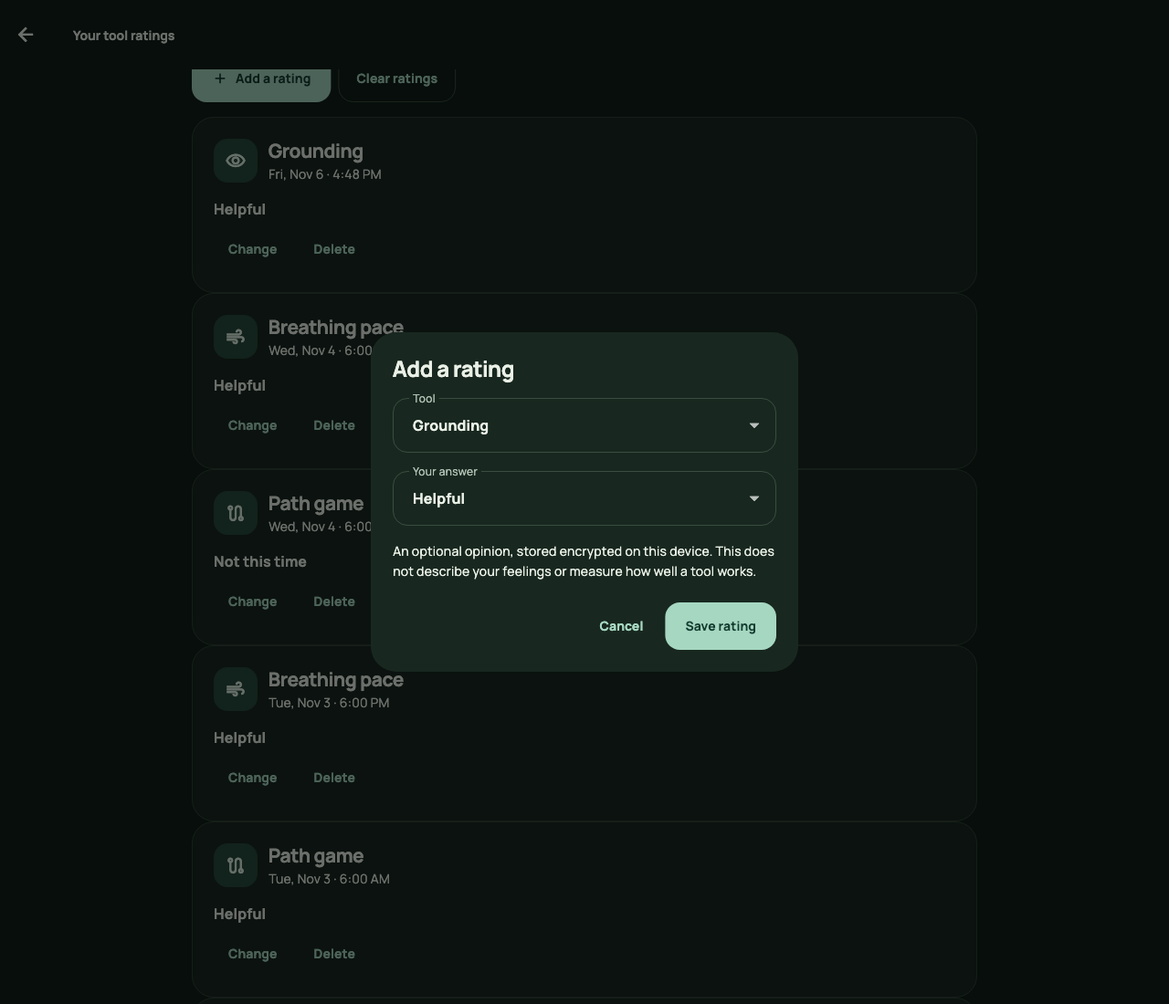
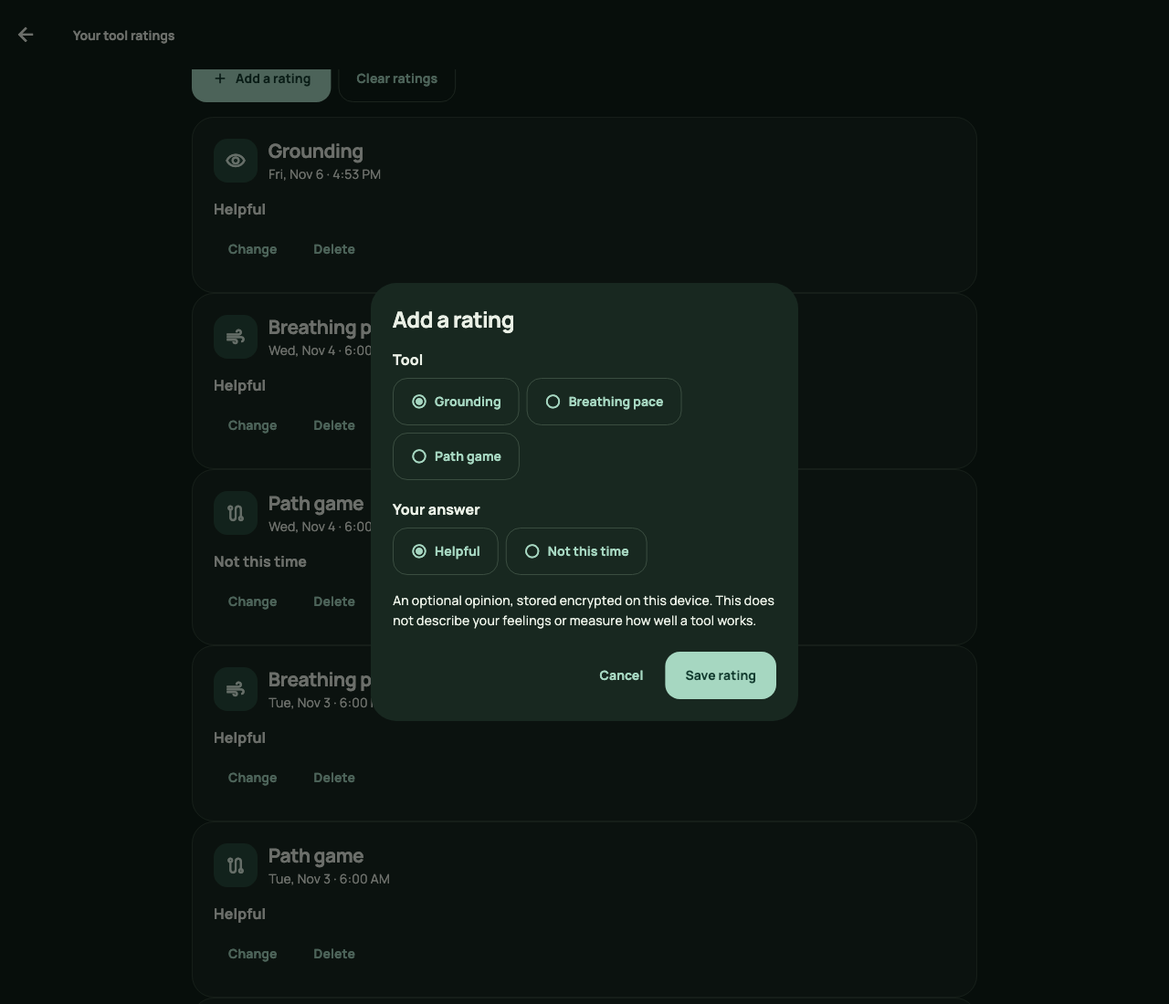
Fix Help-covered saves and keep large-text rating choices readable

Changed region(s): [[0.3125, 0.3091, 0.6875, 0.7109], [0.4688, 0.3709, 0.5625, 0.4327], [0.3125, 0.6491, 0.3438, 0.7109]]

diff --git a/test/widget/tool_feedback_test.dart b/test/widget/tool_feedback_test.dart
@@ -1,6 +1,7 @@
 import 'dart:async';
 
 import 'package:flutter/material.dart';
+import 'package:flutter/rendering.dart';
 import 'package:flutter_test/flutter_test.dart';
 import 'package:steady_through/app/app_controller.dart';
 import 'package:steady_through/data/app_repository.dart';
@@ -396,4 +397,125 @@ void main() {
     await tap(t, 'Rate this tool (optional)');
     expect(t.takeException(), isNull);
   });
+  for (final started in [false, true]) {
+    testWidgets(
+      'Help stays immediate and a ${started ? 'started' : 'queued'} prompt save settles on its original attempt',
+      (t) async {
+        await open(t, prompt());
+        await tap(t, 'Rate this tool (optional)');
+        repo.barrier = Completer<void>();
+        if (!started) controller.setTheme(ThemeChoice.dark);
+        await t.tap(find.text('Helpful'));
+        await t.pump();
+        await t.runAsync(() async => Future<void>.delayed(Duration.zero));
+        await t.pump();
+        unawaited(
+          Navigator.of(t.element(find.byType(ToolFeedbackPrompt))).push(
+            MaterialPageRoute<void>(
+              builder: (_) =>
+                  Scaffold(appBar: AppBar(title: const Text('Help page'))),
+            ),
+          ),
+        );
+        await t.pumpAndSettle();
+        expect(find.text('Help page'), findsOneWidget);
+        repo.barrier!.complete();
+        await t.pumpAndSettle();
+        await t.runAsync(() async => Future<void>.delayed(Duration.zero));
+        await t.pumpAndSettle();
+        await t.pageBack();
+        await t.pumpAndSettle();
+        expect(find.text('Saving rating…'), findsNothing);
+        if (started) {
+          expect(controller.data.toolFeedback.ratings, hasLength(1));
+          expect(find.text('Rating saved'), findsOneWidget);
+          await tap(t, 'Not this time');
+          expect(controller.data.toolFeedback.ratings, hasLength(1));
+        } else {
+          expect(controller.data.toolFeedback.ratings, isEmpty);
+          await tap(t, 'Helpful');
+          expect(controller.data.toolFeedback.ratings, hasLength(1));
+        }
+      },
+    );
+  }
+  testWidgets(
+    'large text dialog paints every selected label glyph inside its bounds',
+    (t) async {
+      t.view.physicalSize = const Size(320, 1100);
+      t.view.devicePixelRatio = 1;
+      addTearDown(t.view.resetPhysicalSize);
+      addTearDown(t.view.resetDevicePixelRatio);
+      await t.pumpWidget(
+        MaterialApp(
+          builder: (context, child) => MediaQuery(
+            data: MediaQuery.of(context)
+                .copyWith(textScaler: TextScaler.linear(2)),
+            child: child!,
+          ),
+          home: ToolFeedbackHistory(controller: controller),
+        ),
+      );
+      await t.pumpAndSettle();
+      await tap(t, 'Add a rating');
+      Future<void> checkLabels(List<String> labels) async {
+        for (final label in labels) {
+          final target = find
+              .descendant(
+                of: find.byType(AlertDialog),
+                matching: find.text(label),
+              )
+              .first;
+          await t.ensureVisible(target);
+          await t.pumpAndSettle();
+          final paragraph = t.renderObject<RenderParagraph>(target);
+          final boxes = paragraph.getBoxesForSelection(
+            TextSelection(baseOffset: 0, extentOffset: label.length),
+          );
+          expect(boxes, isNotEmpty, reason: label);
+          for (final box in boxes) {
+            expect(
+              box.right,
+              lessThanOrEqualTo(paragraph.size.width + 1),
+              reason: label,
+            );
+            expect(
+              box.bottom,
+              lessThanOrEqualTo(paragraph.size.height + 1),
+              reason: label,
+            );
+          }
+        }
+      }
+
+      await checkLabels([
+        'Grounding',
+        'Breathing pace',
+        'Path game',
+        'Helpful',
+        'Not this time',
+      ]);
+      await tap(t, 'Path game');
+      await tap(t, 'Not this time');
+      await tap(t, 'Save rating');
+      final receipt = controller.data.toolFeedback.ratings.single;
+      expect(receipt.tool, SupportTool.pathGame);
+      expect(receipt.rating, ToolRating.notThisTime);
+      await t.scrollUntilVisible(
+        find.text('Change'),
+        250,
+        scrollable: find.byType(Scrollable).first,
+      );
+      await tap(t, 'Change');
+      await checkLabels(['Helpful', 'Not this time']);
+      await tap(t, 'Helpful');
+      await tap(t, 'Save rating');
+      expect(controller.data.toolFeedback.ratings.single.id, receipt.id);
+      expect(
+        controller.data.toolFeedback.ratings.single.rating,
+        ToolRating.helpful,
+      );
+      expect(t.takeException(), isNull);
+    },
+  );
 }

diff --git a/lib/features/tools/feedback/tool_feedback_dialog.dart b/lib/features/tools/feedback/tool_feedback_dialog.dart
@@ -160,6 +160,19 @@ class _FeedbackDialogState extends State<_FeedbackDialog> {
     super.dispose();
   }
 
+  Widget _choice(String label, bool selected, VoidCallback choose) => Semantics(
+    selected: selected,
+    child: OutlinedButton.icon(
+      onPressed: _busy || _invalidated || !_activity.active || _vehicle
+          ? null
+          : choose,
+      icon: Icon(
+        selected ? Icons.radio_button_checked : Icons.radio_button_off,
+      ),
+      label: Text(label),
+    ),
+  );
+
   @override
   Widget build(BuildContext context) {
     final title = switch (widget.action) {
@@ -183,41 +196,42 @@ class _FeedbackDialogState extends State<_FeedbackDialog> {
           crossAxisAlignment: CrossAxisAlignment.start,
           children: [
             if (widget.action == _Action.rate) ...[
-              if (widget.expected == null)
-                DropdownButtonFormField<SupportTool>(
-                  initialValue: _tool,
-                  isExpanded: true,
-                  decoration: const InputDecoration(labelText: 'Tool'),
-                  items: [
+              if (widget.expected == null) ...[
+                Text('Tool', style: Theme.of(context).textTheme.titleMedium),
+                const SizedBox(height: 8),
+                Wrap(
+                  spacing: 8,
+                  runSpacing: 8,
+                  children: [
                     for (final tool in SupportTool.values)
-                      DropdownMenuItem(
-                        value: tool,
-                        child: Text(toolName(tool)),
+                      _choice(
+                        toolName(tool),
+                        _tool == tool,
+                        () => setState(() => _tool = tool),
                       ),
                   ],
-                  onChanged: _busy
-                      ? null
-                      : (value) => setState(() => _tool = value!),
-                )
-              else
+                ),
+              ] else
                 Text(
                   '${toolName(_tool)} · ${feedbackDate(context, widget.expected!.createdAt)}',
                 ),
               const SizedBox(height: 20),
-              DropdownButtonFormField<ToolRating>(
-                initialValue: _rating,
-                isExpanded: true,
-                decoration: const InputDecoration(labelText: 'Your answer'),
-                items: [
+              Text(
+                'Your answer',
+                style: Theme.of(context).textTheme.titleMedium,
+              ),
+              const SizedBox(height: 8),
+              Wrap(
+                spacing: 8,
+                runSpacing: 8,
+                children: [
                   for (final rating in ToolRating.values)
-                    DropdownMenuItem(
-                      value: rating,
-                      child: Text(ratingName(rating)),
+                    _choice(
+                      ratingName(rating),
+                      _rating == rating,
+                      () => setState(() => _rating = rating),
                     ),
                 ],
-                onChanged: _busy
-                    ? null
-                    : (value) => setState(() => _rating = value!),
               ),
               const SizedBox(height: 16),
               const Text(

diff --git a/lib/features/tools/feedback/tool_feedback_prompt.dart b/lib/features/tools/feedback/tool_feedback_prompt.dart
@@ -81,12 +81,14 @@ class _ToolFeedbackPromptState extends State<ToolFeedbackPrompt> {
     if (mounted) setState(_reset);
   }
 
-  bool _valid(int generation, int epoch, int revision) =>
+  bool _sameAttempt(int generation, int epoch, int revision) =>
       mounted &&
       generation == _generation &&
       _activity.accepts(epoch) &&
       revision == widget.controller.replacementRevision &&
-      !_vehicle &&
+      !_vehicle;
+  bool _valid(int generation, int epoch, int revision) =>
+      _sameAttempt(generation, epoch, revision) &&
       (ModalRoute.of(context)?.isCurrent ?? true);
   Future<void> _save(ToolRating? rating) async {
     if (_busy || !_activity.active || _vehicle) return;
@@ -128,21 +130,31 @@ class _ToolFeedbackPromptState extends State<ToolFeedbackPrompt> {
           if (r.id == previous.id) saved = r;
         }
       }
-      if (guard()) {
+      // Help can cover this same attempt while an atomic save finishes. Keep
+      // its receipt here so returning cannot accidentally create a duplicate.
+      // A replacement route/board, background epoch or document still fails.
+      if (_sameAttempt(generation, epoch, revision)) {
         setState(() {
-          _receipt = saved;
+          _receipt =
+              widget.controller.data.toolFeedback.ratings.any(
+                (record) => identical(record, saved),
+              )
+              ? saved
+              : null;
           _expanded = true;
         });
       }
     } catch (_) {
-      if (guard()) {
+      if (_sameAttempt(generation, epoch, revision)) {
         setState(
           () => _error =
               'Could not save this change. Try again or leave this tool.',
         );
       }
     } finally {
-      if (guard()) setState(() => _busy = false);
+      if (_sameAttempt(generation, epoch, revision)) {
+        setState(() => _busy = false);
+      }
     }
   }
 

diff --git a/tool/capture_feedback_ui_test.dart b/tool/capture_feedback_ui_test.dart
@@ -256,10 +256,13 @@ void main() {
       await _capture(tester, file('history-records'));
       await _tapVisible(tester, find.text('Change'));
       expect(find.text('Change your rating'), findsOneWidget);
-      await tester.tap(find.byType(DropdownButtonFormField<ToolRating>));
-      await tester.pumpAndSettle();
-      await tester.tap(find.text('Not this time').last);
-      await tester.pumpAndSettle();
+      await _tapVisible(
+        tester,
+        find.descendant(
+          of: find.byType(AlertDialog),
+          matching: find.text('Not this time'),
+        ),
+      );
       await _capture(tester, file('dialog-change'));
       await _tapVisible(tester, find.text('Cancel'));
 

diff --git a/docs/superpowers/plans/2026-11-06-what-helps.md b/docs/superpowers/plans/2026-11-06-what-helps.md
@@ -1,6 +1,6 @@
 # What Helps You Implementation Plan
 
-> **For agentic workers:** REQUIRED SUB-SKILL: Use superpowers:subagent-driven-development (recommended) or superpowers:executing-plans to implement this plan task-by-task. Steps use checkbox (`- [ ]`) syntax for tracking.
+> **For agentic workers:** REQUIRED SUB-SKILL: Use superpowers:subagent-driven-development (recommended) or superpowers:executing-plans to implement this plan task-by-task. Steps use checkbox (`- [x]`) syntax for tracking.
 
 **Goal:** Let people optionally rate support tools and revisit ones they explicitly marked helpful.
 
@@ -37,10 +37,10 @@
 
 **Interfaces:** `SupportTool {grounding,breathing,pathGame}`; `ToolRating {helpful,notThisTime}`; immutable `ToolFeedback(id,createdAt,tool,rating)`; `ToolFeedbackData(showPrompts,useSuggestions,ratings)` with `bounded`, `record`, `correct`, `remove`, `copyWith` and strict JSON. `ToolFeedbackSummary.fromData(data,{now})` provides newest-first `ratings`, per-tool `counts(tool)` (`helpful`,`notThisTime`,`latest`) and `suggestion` (latest Helpful among latest-per-tool ratings, null when suggestions off). Controller `recordToolFeedback(tool,rating,{required expectedRevision,isActive}) -> Future<ToolFeedback>`; `correctToolFeedback(id,rating,{required expected,required expectedRevision,isActive})`; matching delete; `clearToolFeedback({required expectedRevision,isActive})`; `updateToolFeedbackOptions({bool? showPrompts,bool? useSuggestions,required expectedRevision,isActive})`; `pruneRetainedData()`.
 
-- [ ] Write failing tests for strict record/settings validation and immutable UTC roundtrip; schema1/2/3→4 preserving guide/plan/learning; invalid4/unknown5, illegal field in earlier versions; inclusive180day/future/tie/1000eviction; most-recent helpful retrieval and latest-negative exclusion with all ordinary tools retained by UI.
-- [ ] Write controller tests for exact receipt/correction identity/time, expected-ID+instance checks, queued unrelated writes, replacement revision/lifecycle guard checked at execution, failed primary save versus committed cleanup warning, clear scope, retention/eviction purge and post-dispose rejection. Extend real encrypted portability with rating/settings roundtrip and unchanged native consent reset.
-- [ ] Run targeted tests to observe missing behavior (RED). Implement models, schema4/version>=3 parsing, guarded current-state mutations and both-history retention. Replace production/test `pruneLearning` calls with `pruneRetainedData`; do not weaken malformed-import expectations.
-- [ ] Run targeted suites then `flutter test`. Expected all PASS. Commit code/tests and record actual evidence.
+- [x] Write failing tests for strict record/settings validation and immutable UTC roundtrip; schema1/2/3→4 preserving guide/plan/learning; invalid4/unknown5, illegal field in earlier versions; inclusive180day/future/tie/1000eviction; most-recent helpful retrieval and latest-negative exclusion with all ordinary tools retained by UI.
+- [x] Write controller tests for exact receipt/correction identity/time, expected-ID+instance checks, queued unrelated writes, replacement revision/lifecycle guard checked at execution, failed primary save versus committed cleanup warning, clear scope, retention/eviction purge and post-dispose rejection. Extend real encrypted portability with rating/settings roundtrip and unchanged native consent reset.
+- [x] Run targeted tests to observe missing behavior (RED). Implement models, schema4/version>=3 parsing, guarded current-state mutations and both-history retention. Replace production/test `pruneLearning` calls with `pruneRetainedData`; do not weaken malformed-import expectations.
+- [x] Run targeted suites then `flutter test`. Expected all PASS. Commit code/tests and record actual evidence.
 
 ### Task 2: Optional rating prompt, ownership history and explained ideas
 
@@ -48,9 +48,9 @@
 
 **Interfaces:** `FeedbackActivity` observes lifecycle, exposes active/epoch guard and closes cleanly. `ToolFeedbackPrompt(controller,tool,LearningSession? safetySession)` is collapsed by default and borrows the controller; parent gives a fresh widget key per attempt. `WhatHelpsCard(controller,{safetySession,onOpenTool})` shows exact counts/latest answers, optional explained suggestion, two settings and link to lazy `ToolFeedbackHistory`. Dialogs support add/correct/delete/clear with revision, expected receipt and lifecycle guards; no caller supplies a stale whole AppData/list.
 
-- [ ] Write failing widget tests for collapsed/expand/skip/no automatic save, duplicate tap with delayed repository, failed save/retry, correction and exact Undo, source-off/paused use, prompt setting off/manual Add still available, suggestion reason/latest-negative behavior, per-record and clear confirmation scope, stale/import/background/vehicle/disposal guards and safe late completions.
-- [ ] Run targeted widget file (RED). Implement focused widgets and activity guard, live success/error semantics and wrapping controls. Suggestions open only after a tap. Ratings list uses lazy rendering; external exports remain outside deletion scope. Record primary success plus cleanup warning distinctly.
-- [ ] Run widget tests, analyzer and full Flutter suite. Expected all PASS. Commit and ledger actual results.
+- [x] Write failing widget tests for collapsed/expand/skip/no automatic save, duplicate tap with delayed repository, failed save/retry, correction and exact Undo, source-off/paused use, prompt setting off/manual Add still available, suggestion reason/latest-negative behavior, per-record and clear confirmation scope, stale/import/background/vehicle/disposal guards and safe late completions.
+- [x] Run targeted widget file (RED). Implement focused widgets and activity guard, live success/error semantics and wrapping controls. Suggestions open only after a tap. Ratings list uses lazy rendering; external exports remain outside deletion scope. Record primary success plus cleanup warning distinctly.
+- [x] Run widget tests, analyzer and full Flutter suite. Expected all PASS. Commit and ledger actual results.
 
 ### Task 3: Integrate all tool entry points, pacing and encrypted native fixture
 
@@ -58,17 +58,17 @@
 
 **Interfaces:** Tool constructors gain optional `LearningSession? safetySession`; shell and game-break routes forward it consistently. Grounding uses prompt at finished view. Breathing adds explicit Done for now/Start again with attempt key, paused lifecycle and static reduced-motion circle. Game prompt is independent of `_chooseFeeling`; new/easier/restarted attempts reset prompt state. Tools summary callback opens the selected tool in the existing route with shell help/path callbacks.
 
-- [ ] Write failing integration/widget cases for Grounding skipped-to-ending, immediate Stop/Back/Help, all shell return labels, Breathing Done cancels timer/Help pauses/no auto-resume/static reduced motion, game usefulness without GameRound and independent feeling save, new-board/in-flight prompt isolation, source-off summary and320px/200% Simple/reduced-motion layouts.
-- [ ] Run targeted widget suites (RED). Integrate reusable components and safety parameters; keep original tool ordering and direct exits. Update game grounding return label to Back to game.
-- [ ] Extend the existing native encrypted backup case with synthetic ratings of all tools/both answers plus options. Assert exact preservation after confirmed import and authenticated reopen, unchanged plans/settings/native-consent-off behavior and exactly the original3native case names. Existing encrypted unit fixture verifies the same payload before CI.
-- [ ] Run analyzer/full Flutter/helper suites. Generate and inspect synthetic mobile/desktop/light/dark/large-text prompt, summary, history and dialog captures; no personal vault/passphrase or OS grants. Commit and ledger evidence.
+- [x] Write failing integration/widget cases for Grounding skipped-to-ending, immediate Stop/Back/Help, all shell return labels, Breathing Done cancels timer/Help pauses/no auto-resume/static reduced motion, game usefulness without GameRound and independent feeling save, new-board/in-flight prompt isolation, source-off summary and320px/200% Simple/reduced-motion layouts.
+- [x] Run targeted widget suites (RED). Integrate reusable components and safety parameters; keep original tool ordering and direct exits. Update game grounding return label to Back to game.
+- [x] Extend the existing native encrypted backup case with synthetic ratings of all tools/both answers plus options. Assert exact preservation after confirmed import and authenticated reopen, unchanged plans/settings/native-consent-off behavior and exactly the original3native case names. Existing encrypted unit fixture verifies the same payload before CI.
+- [x] Run analyzer/full Flutter/helper suites. Generate and inspect synthetic mobile/desktop/light/dark/large-text prompt, summary, history and dialog captures; no personal vault/passphrase or OS grants. Commit and ledger evidence.
 
 ### Task 4: Whole-branch review and verified public1.4preview
 
 **Files:** Update `pubspec.yaml`, `README.md`, `PRIVACY.md`, `docs/quality-status.md`, `docs/device-validation.md`, `docs/ios-distribution.md`; create `docs/releases/1.4.0-decisions.md` and publication snapshot.
 
-- [ ] Run fresh format/analyzer/full Flutter/helper verification; record actual counts. Request fresh whole-branch review on exact range with spec/plan/ledger/Review Focus. Resolve material findings with RED→GREEN regressions and a full green suite.
-- [ ] Set1.4.0+8 and document schema4/read1..4 downgrade/backup boundaries, optional opinions and remaining manual/distribution limits. Adapt previous scoped release helpers without weakening source/package/native/hash gates; preserve original3case names and6packages/10assets.
+- [x] Run fresh format/analyzer/full Flutter/helper verification; record actual counts. Request fresh whole-branch review on exact range with spec/plan/ledger/Review Focus. Resolve material findings with RED→GREEN regressions and a full green suite.
+- [x] Set1.4.0+8 and document schema4/read1..4 downgrade/backup boundaries, optional opinions and remaining manual/distribution limits. Adapt previous scoped release helpers without weakening source/package/native/hash gates; preserve original3case names and6packages/10assets.
 - [ ] Push public feature branch; all7existing CI jobs must pass on exact final source. Download13source-bound artifacts and verify actual suite/native reports/binary metadata. Stage6packages plus evidence/checksums; independent artifact review precedes public release. Draft-upload/hash-check then publish `v1.4.0-preview.1` with tag exactly equal to CI source.
 - [ ] Update public main through reviewed source and documentation-only publication records. Verify ancestry/rename-safe doc allowlist, server asset hashes/sizes/states and anonymous repository/release/all10downloads. Cancel only any redundant tag-triggered identical-source run. Keep physical devices/grants, real OS dialogs, native assistive technology, signing and efficacy as unexecuted separate work.
 - [ ] Record final evidence, archive/remove only this plan scratch workspace, finish branch and report concrete changes with verified limits. Do not stop merely after local tests or review.

diff --git a/docs/quality-status.md b/docs/quality-status.md
@@ -10,7 +10,9 @@ Ratings retain only ID/time/tool/answer in the encrypted vault/export: inclusive
 
 The two rating settings work with learning sources off or paused. The existing optional session's current possible-vehicle flag suppresses rating mutations, while Help/Back remain available; missing motion stays unknown and no source or permission is added. Queued writes guard document replacement, foreground and attempt lifetime. Breathing adds explicit Done for now after Start, a fresh Start again attempt, pause on background/Help with no auto-resume, and a static reduced-motion circle with pace text.
 
-**1.4 evidence is pending:** final local test/format/analyzer/helper results, fresh whole-branch review, synthetic visual inspection, seven-job exact-source CI, native reports, six package checks, release staging, hashes and anonymous public access must be recorded from actual results. No 1.4 count, source hash or published release is asserted here. Feedback captures are planned for `docs/screenshots/what-helps/`; a generated image is not by itself inspected evidence. The existing native encrypted-backup case is extended for all three tools, both answers and rating settings; its execution remains to be verified on each runtime.
+**Local 1.4 evidence:** 354 Flutter tests and 88 Python CI-helper tests passed, analyzer reported no issues, and all 98 Dart files passed format checking unchanged. A fresh whole-branch review found two P2 issues: a prompt could remain busy after Help covered a pending save, and narrow200% dropdown values clipped. Three regressions failed before the fixes and passed afterward; queued actions remain rejected, already-started receipts reconcile only to the same attempt, and wrapped choices expose every label. The final full suite passed after the fixes. All 28 synthetic feedback captures were generated and inspected across mobile light, desktop dark and320px Simple/200% reduced-motion profiles. These renderings exercise actual widgets with fictional data, without a vault, OS grant or personal readings. They are not native assistive-technology validation.
+
+**Still pending for 1.4:** seven-job exact-source CI, all original three native cases per runtime, six package/source checks, release staging, public hashes and anonymous access. The encrypted native backup fixture includes all tools/both answers and rating settings; runtime execution must be recorded separately.
 
 Physical devices/grants, real OS file/permission dialogs, native assistive technology, signing/notarization and clinical or human effectiveness remain separate unexecuted work. The [design](superpowers/specs/2026-11-06-what-helps-design.md), [decisions](releases/1.4.0-decisions.md) and [manual checks](device-validation.md) define the current scope. All evidence below applies only to its named historical revision.
 

diff --git a/PRIVACY.md b/PRIVACY.md
@@ -4,7 +4,7 @@ _Last updated: November 6, 2026_
 
 ## Current 1.4 work in progress — CI and release pending
 
-The working **1.4.0+8** adds optional tool-rating preferences in the encrypted vault, writes **schema 4**, and reads strictly validated versions **1, 2, 3 and 4**. Validation and publication evidence for this revision are pending; earlier release evidence remains historical. New version 4 vaults/exports cannot be read by an app that supports only up to version 3. Preserve a usable earlier backup if you may return to an older app. Encryption, export passphrases, the KDF and native source permissions remain unchanged. See the [1.4 decisions](docs/releases/1.4.0-decisions.md) and [quality status](docs/quality-status.md).
+The working **1.4.0+8** adds optional tool-rating preferences in the encrypted vault, writes **schema 4**, and reads strictly validated versions **1, 2, 3 and 4**. Local verification is recorded in quality status; exact-source native CI and publication remain pending. Earlier release evidence remains historical. New version 4 vaults/exports cannot be read by an app that supports only up to version 3. Preserve a usable earlier backup if you may return to an older app. Encryption, export passphrases, the KDF and native source permissions remain unchanged. See the [1.4 decisions](docs/releases/1.4.0-decisions.md) and [quality status](docs/quality-status.md).
 
 Steady Through works locally without an account, app-operated backend, analytics, advertising, in-app cloud sync or cloud emotion service. The whole app is free. Device permissions are optional; declining them leaves planning, tools, people, manual check-ins and help available. The app does not request a birth date, location permission, contacts permission or notification permission. People and phone numbers are typed in manually. Its features support personal organization and general self-help; they are not medical care or a validated stress measurement.
 

diff --git a/docs/releases/1.4.0-decisions.md b/docs/releases/1.4.0-decisions.md
@@ -15,3 +15,7 @@ The working app version is **1.4.0+8**. This records the intended and implemente
 9. **Keep evidence tied to its source and limits.** Final format/analyzer/Flutter/helper results, fresh whole-branch review, exact-source seven-job CI, all original three native case names per runtime, six packages, public hashes/access and publication are pending. The encrypted native backup fixture includes all tools/both answers and both settings; execution must be recorded separately. Synthetic feedback captures are planned for `docs/screenshots/what-helps/` and need visual inspection. Physical grants/devices, native assistive technology, real OS dialogs, signing/notarization and clinical or human outcomes remain unexecuted work.
 
 The [manual device guide](../device-validation.md) and [iOS distribution handoff](../ios-distribution.md) preserve the remaining owner/device steps. No prior-release count or package result is evidence for 1.4.
+
+## Local verification and review
+
+The final full Flutter suite passed354 tests; Python CI helpers passed88, analyzer reported no issues, and98 Dart files passed unchanged formatting. Fresh whole-branch review inspected458a4f4..719e256 and found two P2 defects. Three regressions reproduced both queued/started Help-covered saves and clipped selected text before the fixes, then passed. Same-attempt receipt reconciliation prevents duplicate resubmission after Help; stale document/foreground/board guards still apply. Dialogs now use wrapping selected choices. The complete suite passed again after these fixes, and28 regenerated synthetic captures were inspected, including the corrected narrow200% dialogs. No material review finding remains open. Runtime, artifact and publication evidence is still pending.

diff --git a/README.md b/README.md
@@ -10,7 +10,7 @@ The working app version is **1.4.0+8**. **What helps you** adds optional persona
 
 This source writes **schema 4** and reads strictly validated **versions 1, 2, 3 and 4**. Schema 4 adds encrypted tool ratings/settings; older documents start with no ratings and both rating settings on. Apps that read only up to version 3 cannot read newly written version 4 vaults or exports. Keep a usable earlier backup under your control if you may return to an older app; a new export also uses version 4. There is no silent downgrade or plaintext fallback.
 
-Fresh whole-branch review, final local verification, exact-source seven-job CI, package checks and public release/hash/access verification are **pending for 1.4**. Historical counts and downloads below validate their named older release only. Synthetic feedback captures are planned for `docs/screenshots/what-helps/`; their existence or inspection will be recorded separately in [quality status](docs/quality-status.md).
+Local verification passed **354 Flutter tests, 88 CI-helper tests, analyzer checks and formatting for 98 Dart files**. Fresh whole-branch review found two issues; both have failing-before/passing-after regressions and the full green suite. All 28 synthetic feedback captures were inspected, including wrapping choices at 320px/200% text. Exact-source seven-job CI, native runtime/package checks and public release verification are still pending for 1.4. Historical downloads below validate their named older release only. See [quality status](docs/quality-status.md).
 
 ## Previous published previews
 
